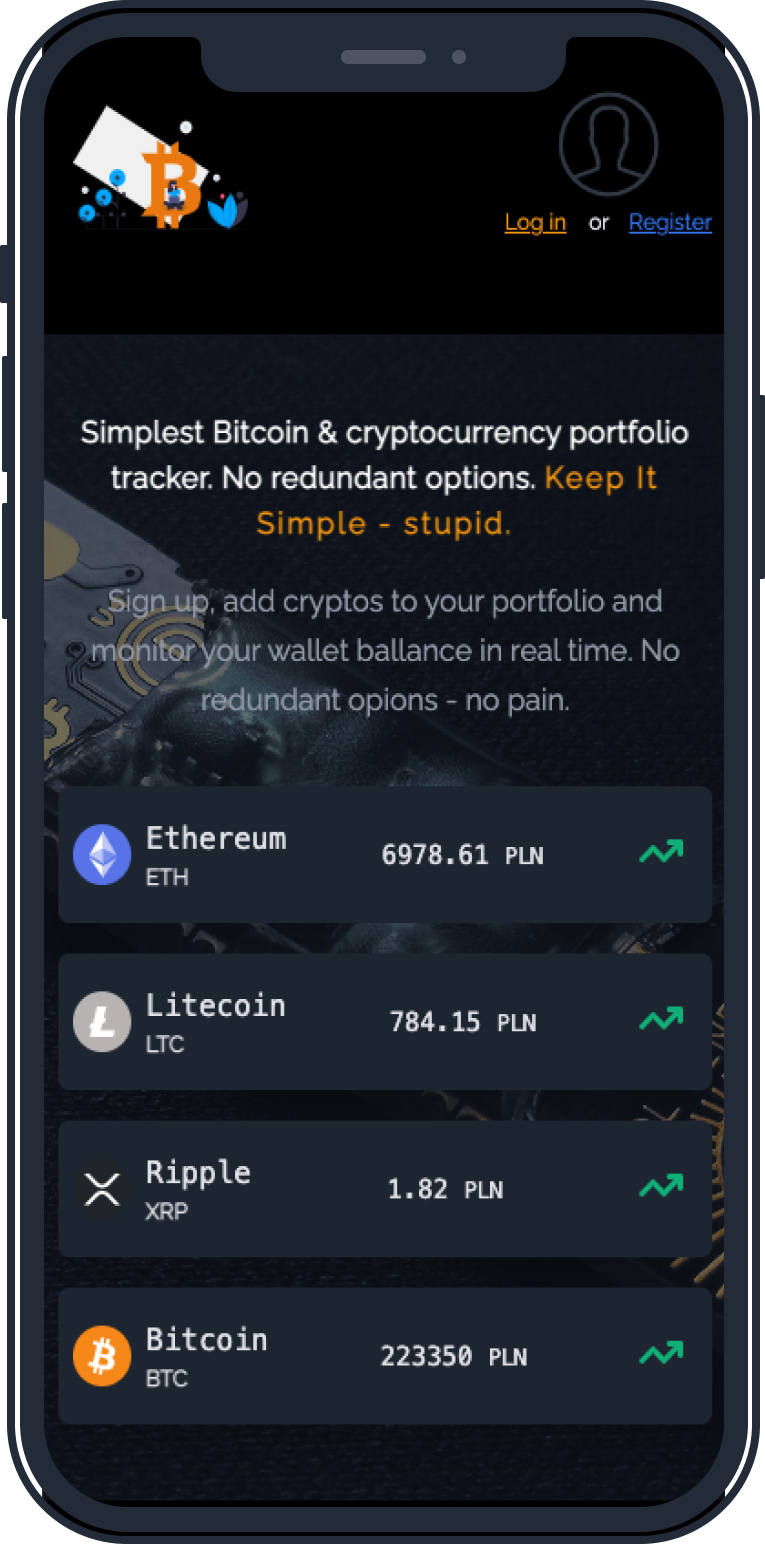
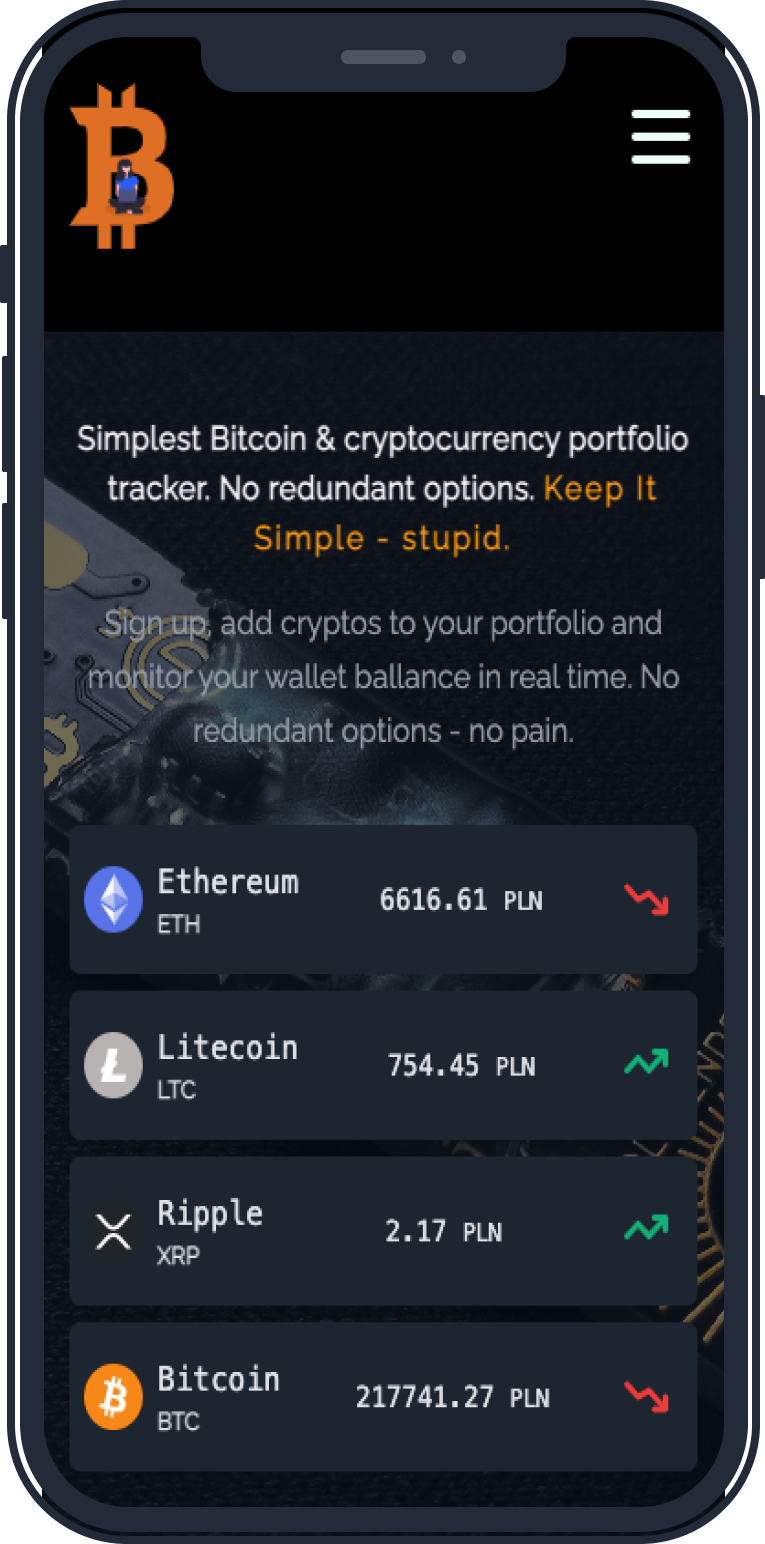
style: Features mockups images

diff --git a/packages/front/components/total/Total.tsx b/packages/front/components/total/Total.tsx
@@ -4,15 +4,15 @@ import { useGetTotal } from '../cryptos/utils/useGetTotal';
 const Total = () => {
   const total = useGetTotal();
   return (
-    <div className="text-center md:text-left sm:float-right font-bold py-4">
-      <p className="text-black bg-white inline-block text-xl sm:text-4xl p-2 my-2 font-mono transform rotate-3">
+    <div className="text-center sm:float-right font-bold py-4 self-end">
+      <p className="text-black bg-gray-200 inline-block text-xl sm:text-4xl p-2 my-2 font-mono transform rotate-3">
         TOTAL
       </p>
       <br />
-      <p className="text-black bg-white inline-block text-2xl sm:text-6xl p-2 my-2 font-mono">
+      <p className="text-black bg-gray-200 inline-block text-2xl sm:text-6xl p-2 my-2 font-mono">
         {total}
       </p>
-      <span className="text-black bg-white inline-block text-xl sm:text-4xl p-2 my-2 font-mono mx-2 transform -rotate-3">
+      <span className="text-black bg-gray-200 inline-block text-xl sm:text-4xl p-2 my-2 font-mono mx-2 transform -rotate-3">
         PLN
       </span>
     </div>

diff --git a/packages/front/components/features/Features.tsx b/packages/front/components/features/Features.tsx
@@ -8,6 +8,8 @@ import FeaturesCarousel from './carousel/FeaturesCarousel';
 import mockup1 from '../../assets/mockup1.png';
 // @ts-ignore
 import mockup2 from '../../assets/mockup2.png';
+// @ts-ignore
+import mockup3 from '../../assets/mockup3.png';
 
 const Features = () => {
   return (
@@ -26,7 +28,7 @@ const Features = () => {
         <Feature
           title="Nothing more..."
           text="It has no signals, no trade options. Nothing but your personal portfolio tracker. Monitor your portfolio without beeing disctupted by any redundant options."
-          img={mockup1}
+          img={mockup3}
         />
       </FeaturesCarousel>
     </ClippedSection>

diff --git a/packages/front/components/cryptos/cryptosAuthUser/CryptosAuthUser.tsx b/packages/front/components/cryptos/cryptosAuthUser/CryptosAuthUser.tsx
@@ -53,10 +53,7 @@ const CryptosAuthUser = React.memo<CryptoInAssetUserProps>(({ cryptos }) => {
               </div>
             ) : (
               <>
-                <div className="flex justify-between w-full items-center">
-                  <h2 className="text-xl md:text-4xl">Your assets</h2>
-                  <Total />
-                </div>
+                <Total />
                 <AssetTable cryptos={cryptos} assets={assets} />
                 {notInAssets.length > 0 && !isAddFormVisible && (
                   <div className="mt-4 sm:mt-8 sm:self-end">

diff --git a/packages/front/components/cryptos/crypto/cryptoInAsset/AssetTableItem.tsx b/packages/front/components/cryptos/crypto/cryptoInAsset/AssetTableItem.tsx
@@ -96,7 +96,7 @@ const AssetTableItem = ({ asset }: AssetTableItemProps) => {
     if (!isEditVisible) {
       return (
         <>
-          <tr className="h-16 sm:h-20 bg-gray-900 rounded-md text-gray-300 text-sm sm:text-2xl font-sans">
+          <tr className="h-16 sm:h-20 bg-gray-900 rounded-md text-gray-200 text-sm sm:text-2xl font-sans">
             <td>
               <div className="flex items-center px-4">
                 <CryptoIcon i={currency.toLowerCase()} size={cryptoIconSize} />
